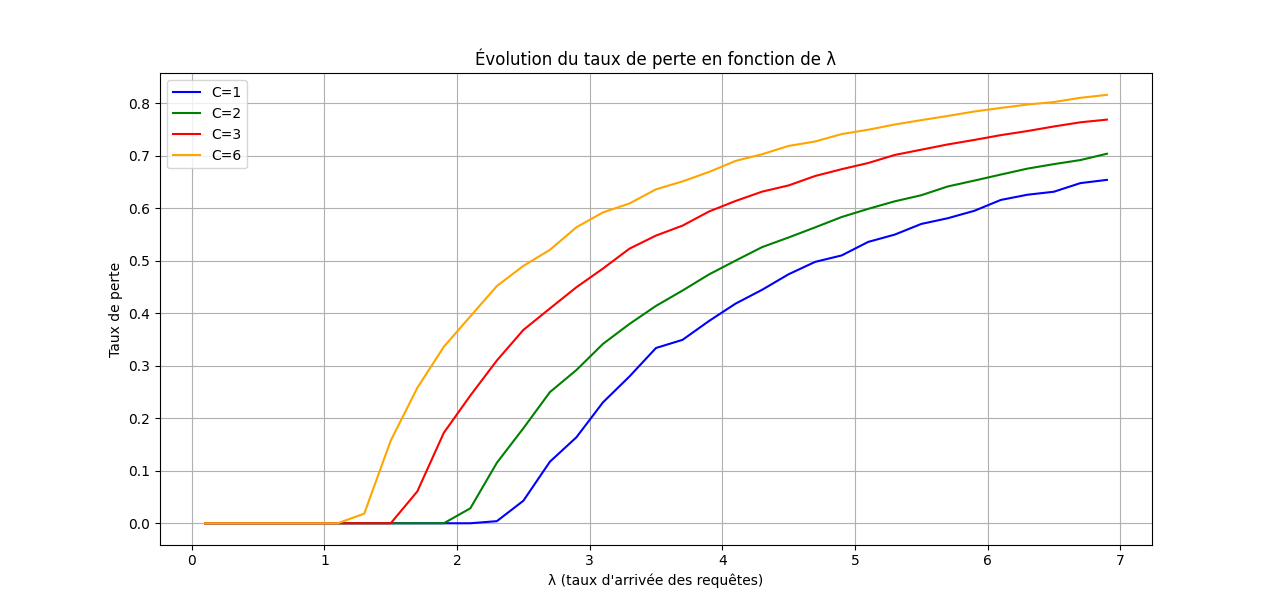
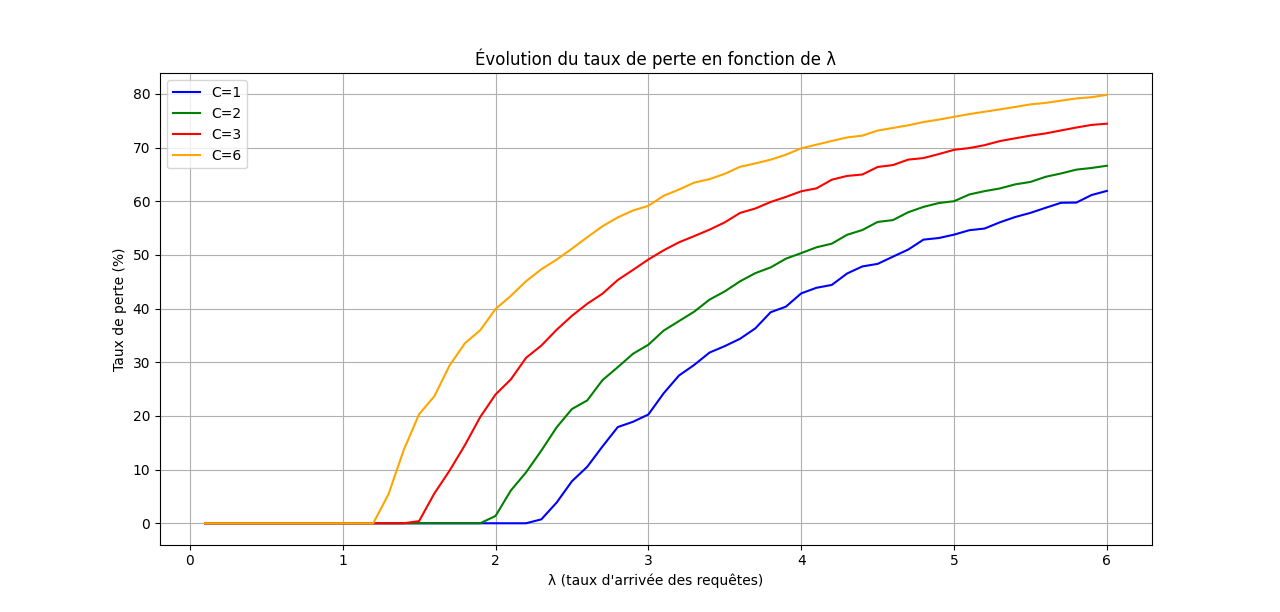
Ajout plots

diff --git a/Simu/Rebuild.py b/Simu/Rebuild.py
@@ -1,6 +1,5 @@
 from heapq import heappush, heappop
 import random
-import time
 import numpy as np
 import matplotlib.pyplot as plt
 
@@ -171,7 +170,7 @@ def plot_temps_reponse(lambdas, resultats):
 def plot_taux_perte(lambdas, taux_pertes):
     """Plot le taux de perte en pourcentage"""
     plt.figure(figsize=(10, 6))
-    couleurs = ['blue', 'green', 'red', 'orange']
+    couleurs = ['red', 'orange', 'red', 'orange']
     
     for i, C in enumerate(taux_pertes.keys()):
         # Convertir en pourcentage
@@ -188,7 +187,7 @@ def plot_taux_perte(lambdas, taux_pertes):
 def plot_temps_little(lambdas, resultats_little):
     """Plot le temps moyen calculé avec la loi de Little"""
     plt.figure(figsize=(10, 6))
-    couleurs = ['blue', 'green', 'red', 'orange']
+    couleurs = ['green', 'red', 'red', 'orange']
     
     for i, C in enumerate(resultats_little.keys()):
         temps_little = [np.mean(w) for w in resultats_little[C]]
@@ -206,8 +205,8 @@ def plot_temps_little(lambdas, resultats_little):
     plt.legend()
 
 if __name__ == "__main__": 
-    lambdas = np.arange(1.9, 2.2, 0.01)
-    nb_groupes_list = [2]
+    lambdas = np.arange(1.1, 1.15, 0.005)
+    nb_groupes_list = [2, 3]
     n_sims = 3  # Nombre de simulations par point
     
     resultats = {C: [] for C in nb_groupes_list}
@@ -223,7 +222,7 @@ if __name__ == "__main__":
             
             # Faire n_sims simulations pour cette valeur de lambda
             for sim in range(n_sims):
-                tr, tp, W_little = simulation(lb, C, 3000)
+                tr, tp, W_little = simulation(lb, C, 175000)
                 temps_reponses.append(tr)
                 temps_little.append(W_little)
                 taux_perte += tp/n_sims  # Moyenne du taux de perte
